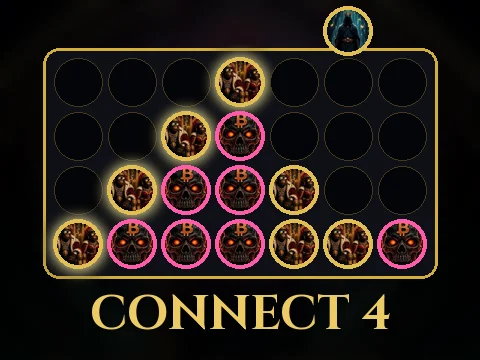
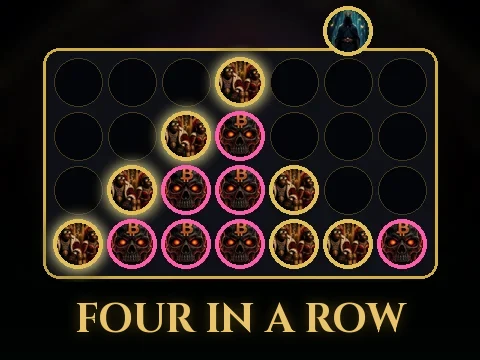
Rename Connect 4 to ANON Four in a Row (title, heading, meta, hub tile, thumbnail art); id and URL unchanged

Changed region(s): [[0.1562, 0.7944, 0.8438, 0.9472]]

diff --git a/connect4/index.html b/connect4/index.html
@@ -4,8 +4,8 @@
 <meta charset="utf-8">
 <meta name="viewport" content="width=device-width,initial-scale=1,viewport-fit=cover">
 <meta name="theme-color" content="#05070a">
-<title>ANON Connect 4 · ANON NFTs</title>
-<meta name="description" content="ANON Connect 4: a free four-in-a-row game from ANON NFTs. Play as your favourite ANON character against the computer or a friend. No sign-up.">
+<title>ANON Four in a Row · ANON NFTs</title>
+<meta name="description" content="ANON Four in a Row: a free four-in-a-row game from ANON NFTs. Play as your favourite ANON character against the computer or a friend. No sign-up.">
 <link rel="icon" href="../assets/logo.webp">
 <link rel="apple-touch-icon" href="../assets/apple-touch-icon.png">
 <link rel="preload" href="engine.js" as="script">
@@ -23,7 +23,7 @@ header{padding:calc(6px + env(safe-area-inset-top)) 10px 2px;max-width:560px;wid
 .top{display:flex;align-items:center;justify-content:space-between;gap:8px}
 .brand{display:flex;align-items:center;gap:9px;min-width:0}
 .brand img{width:36px;height:36px;border-radius:50%;box-shadow:0 0 0 1px rgba(212,175,55,.6),0 0 12px rgba(255,61,154,.25);flex:none}
-h1{margin:0;font-family:Georgia,"Times New Roman",serif;font-weight:700;font-size:clamp(16px,5vw,26px);letter-spacing:.1em;white-space:nowrap;overflow:hidden;text-overflow:ellipsis;
+h1{margin:0;font-family:Georgia,"Times New Roman",serif;font-weight:700;font-size:clamp(14px,4.3vw,26px);letter-spacing:.06em;white-space:nowrap;overflow:hidden;text-overflow:ellipsis;
   background:linear-gradient(180deg,#fff3c4 0%,#e9c858 45%,#b48a25 75%,#f5dc85 100%);-webkit-background-clip:text;background-clip:text;color:transparent;filter:drop-shadow(0 0 8px rgba(255,61,154,.2))}
 .icon-btn{width:36px;height:36px;border-radius:50%;border:1px solid rgba(212,175,55,.6);background:rgba(0,0,0,.45);color:var(--gold2);font-weight:800;font-size:16px;flex:none;padding:0}
 .top-r{display:flex;gap:6px;flex:none}
@@ -123,7 +123,7 @@ footer a{color:#b9a35c;text-decoration:none}
 <header>
   <div class="top">
     <a class="back-btn" id="backBtn" href="../" aria-label="Back to ANON Arcade">&larr; Arcade</a>
-    <div class="brand"><img src="../assets/logo.webp" alt="ANON NFTs logo"><h1>ANON CONNECT 4</h1></div>
+    <div class="brand"><img src="../assets/logo.webp" alt="ANON NFTs logo"><h1>ANON FOUR IN A ROW</h1></div>
     <div class="top-r">
       <button class="icon-btn" id="lbBtn" aria-label="Leaderboard">&#127942;</button>
       <button class="icon-btn" id="helpBtn" aria-label="How to play">?</button>
@@ -173,7 +173,7 @@ footer a{color:#b9a35c;text-decoration:none}
 <script>
 (() => {
 'use strict';
-const GAME = 'connect4', TITLE = 'ANON Connect 4';
+const GAME = 'connect4', TITLE = 'ANON Four in a Row';
 const E = window.ANON_C4_ENGINE, W = 7, H = 6;
 const CHARS = [
   { id: 'anon',   name: 'ANON Revenue Share NFTs', img: 'chars/anon.webp' },
@@ -409,7 +409,7 @@ function showResult() {
   openModal(p => {
     if (w !== 0) { const d = el('div', 'disc res-disc' + (w === -1 ? ' p2' : '')); setDisc(d, charById(w === 1 ? S.p1 : S.p2)); p.appendChild(d); }
     p.appendChild(el('h2', '', w === 0 ? 'Draw!' : cpu ? (w === 1 ? 'ANON wins! 👑' : 'Computer wins') : (w === 1 ? 'Player 1 wins!' : 'Player 2 wins!')));
-    p.appendChild(el('div', 'res-sub', w === 0 ? 'Nobody connected four. Rematch?' : charById(w === 1 ? S.p1 : S.p2).name + (cpu ? ' · ' + DIFF_NAME[S.diff] : '')));
+    p.appendChild(el('div', 'res-sub', w === 0 ? 'Nobody got four in a row. Rematch?' : charById(w === 1 ? S.p1 : S.p2).name + (cpu ? ' · ' + DIFF_NAME[S.diff] : '')));
     const g = el('div', 'stats'), t = secs();
     [[cpu ? myMoves() : S.moves.length, cpu ? 'Your moves' : 'Moves'], [Math.floor(t / 60) + ':' + String(t % 60).padStart(2, '0'), 'Time'], [cpu && w === 1 ? score(S.diff, myMoves()) : '–', 'Score']]
       .forEach(([v, l]) => { const s = el('div', 'stat'); s.appendChild(el('b', '', String(v))); s.appendChild(el('span', '', l)); g.appendChild(s); });
@@ -435,6 +435,10 @@ function showHelp() {
   ls.set(K_SEEN, 1);
 }
 $('#helpBtn').onclick = showHelp;
+/* keep the long title on one line on narrow phones: shrink it until it fits */
+function fitTitle() { const h = document.querySelector('h1'); h.style.fontSize = ''; let f = parseFloat(getComputedStyle(h).fontSize);
+  while (h.scrollWidth > h.clientWidth && f > 11) { f -= 0.5; h.style.fontSize = f + 'px'; } }
+fitTitle(); addEventListener('resize', fitTitle); if (document.fonts) document.fonts.ready.then(fitTitle); setTimeout(fitTitle, 600);
 
 /* ---------- boot ---------- */
 renderSetup();
@@ -443,7 +447,7 @@ if (saved && saved.moves && Array.isArray(saved.moves) && !saved.result && saved
   S = Object.assign(newState(), saved); renderPlay(); showView('play'); if (isCpuTurn()) aiTurn();
 } else showView('setup');
 if (!ls.get(K_SEEN, 0)) setTimeout(showHelp, 300);
-window.ANON_C4 = { version: '1.0.0', engine: E, chars: CHARS, score, state: () => JSON.parse(JSON.stringify(S)), busy: () => busy || isCpuTurn(), aiLog: () => lastAi.slice(),
+window.ANON_C4 = { version: '1.1.0', engine: E, chars: CHARS, score, state: () => JSON.parse(JSON.stringify(S)), busy: () => busy || isCpuTurn(), aiLog: () => lastAi.slice(),
   usingWorker: () => !!worker, setup: () => Object.assign({}, setup), tap: c => humanMove(c) };
 })();
 </script>

diff --git a/word-unlimited/index.html b/word-unlimited/index.html
@@ -255,7 +255,7 @@ async function submitGuess() {
     const x = await rpc('wu_guess', { p_round: R.id, p_word: g }); lastGuess = Date.now();
     if (!x.ok) {
       busy = false;
-      if (x.net) return toast('Connection problem – tap Enter to try again', 2400);
+      if (x.net) return toast('Network problem – tap Enter to try again', 2400);
       if (/slow down/i.test(x.msg)) return toast('Easy, ninja – one guess at a time', 1800);
       if (/round (finished|not found|expired)/i.test(x.msg)) { R.status = 'lost'; R.answer = R.answer || '?????'; save(); toast('That word timed out. Here\'s a new one.', 2400); return newRound(); }
       if (x.missing) { SRV = 'missing'; toast('Leaderboard went offline – new practice word', 2400); R = null; return newRound(); }
@@ -387,7 +387,7 @@ async function init() {
   paintAll();
 }
 init();
-window.ANON_WORDU = { version: '1.0.1', state: () => JSON.parse(JSON.stringify(R)), srv: () => SRV, stats, shareText: () => shareText(), next: nextWord, busy: () => busy, evaluate, valid: w => VALID.has(w) };
+window.ANON_WORDU = { version: '1.0.2', state: () => JSON.parse(JSON.stringify(R)), srv: () => SRV, stats, shareText: () => shareText(), next: nextWord, busy: () => busy, evaluate, valid: w => VALID.has(w) };
 })();
 </script>
 </body>

diff --git a/shared/leaderboard.js b/shared/leaderboard.js
@@ -44,7 +44,7 @@ const SUPABASE_ANON_KEY = 'sb_publishable_-f0lT5SuVJ-TbFzlfMd7kA_hH6ZXp-N';
     solitaire: { minScore: 0, maxScore: t => 760 + Math.floor(700000 / Math.max(1, t)), minTime: 60, maxTime: 86400, minMoves: 52, maxMoves: 100000 },
     // Daily ANON Word: moves = guesses used (1-6). score = (7 - guesses) * 100 + max(0, 99 - floor(seconds / 6)).
     'daily-word': { minScore: 100, maxScore: (t, m) => (7 - m) * 100 + Math.max(0, 99 - Math.floor(t / 6)), minTime: 3, maxTime: 86400, minMoves: 1, maxMoves: 6 },
-    // ANON Connect 4 (wins vs computer only): moves = the player's own moves (4-21), mode = easy | medium | hard.
+    // ANON Four in a Row, game id connect4 (wins vs computer only): moves = the player's own moves (4-21), mode = easy | medium | hard.
     // score = base (easy 100, medium 300, hard 600) + (22 - moves) * 10, and at least 1 second per move.
     connect4: { minScore: 110, maxScore: (t, m) => 600 + (22 - m) * 10, minTime: 4, maxTime: 86400, minMoves: 4, maxMoves: 21,
       check: (score, t, m, mode) => { const b = { easy: 100, medium: 300, hard: 600 }[mode];

diff --git a/tictactoe/index.html b/tictactoe/index.html
@@ -220,7 +220,7 @@ const IN_HUB = /[?&]hub=1\b/.test(location.search) || (function () { try { retur
 if (IN_HUB) document.documentElement.classList.add('in-hub');
 const setDisc = (d, ch) => { d.style.backgroundImage = 'url(' + ch.img + ')'; d.setAttribute('role', 'img'); d.setAttribute('aria-label', ch.name); };
 
-/* ---------- setup (same character select as ANON Connect 4) ---------- */
+/* ---------- setup (same character select as ANON Four in a Row) ---------- */
 let setup = Object.assign({ mode: 'cpu', diff: 'medium', p1: 'anon', p2: 'venge' }, ls.get(K_SET, {}));
 let pickStep = 1;
 function randomOther(id) { const o = CHARS.filter(c => c.id !== id); return o[Math.floor(Math.random() * o.length)].id; }

diff --git a/connect4/engine.js b/connect4/engine.js
@@ -1,4 +1,4 @@
-/* ANON Connect 4 engine: board, win detection and the computer player (negamax + alpha-beta,
+/* ANON Four in a Row engine: board, win detection and the computer player (negamax + alpha-beta,
    transposition table, iterative deepening with a time budget). No DOM. Works in browsers and Node. */
 (function (root) {
   'use strict';
